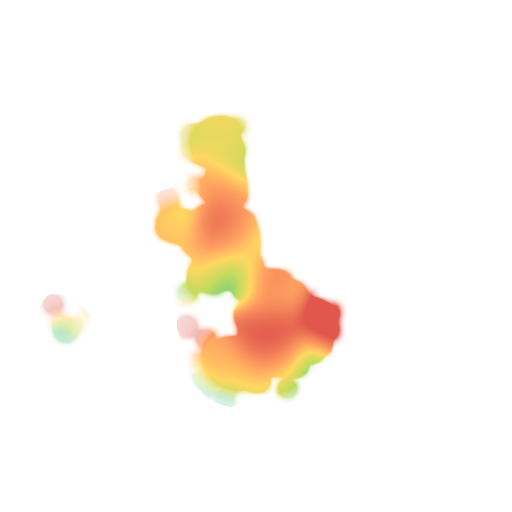
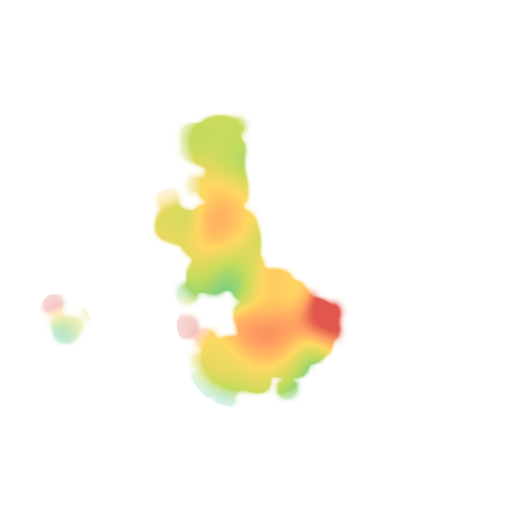
Centre the lifespan colours on the district average
Yellow now means 75%, the share of new shops in Yau Tsim still listed after three years; 60% is red and 90% is green.

Changed region(s): [[0.2812, 0.2188, 0.6562, 0.7812]]

diff --git a/pipeline/heat.py b/pipeline/heat.py
@@ -11,7 +11,8 @@ by distance (Gaussian, sigma about 150 m) gives:
   median  years until half of them stopped being listed, where that point is reached
   n       how many shops the estimate rests on (sum of weights)
 
-Green means shops last, red means they do not. Where the estimate rests on few shops the
+The colour scale is centred on the district's own three-year figure: yellow is typical for
+the district, green means shops last longer than that, red shorter. Where the estimate rests on few shops the
 colour fades toward white, so paler means less data. Nothing is drawn more than about 45 m
 from a shop.
 
@@ -126,12 +127,17 @@ def main():
     median = median.reshape(GRID, GRID)
     n_eff = n_eff.reshape(GRID, GRID)
 
-    # colour stops from the spread of well-supported cells, rounded to 5 points
+    # colour stops centred on the district's own figure, so yellow means "typical for the
+    # district", green better and red worse; the ends sit where the well-supported cells reach
+    at = onehot[:, ::-1].cumsum(1)[:, ::-1].sum(0)
+    with np.errstate(invalid="ignore", divide="ignore"):
+        hz = np.where(at > 0, deaths_by_t.sum(0) / at, 0.0)
+    district = float(np.cumprod(1 - hz)[min(HORIZON, T - 1)])
+    centre = round(district, 2)
     ok = n_eff >= 8
-    q = np.quantile(surv3[ok], [0.05, 0.25, 0.5, 0.75, 0.95])
-    stops_v = [round(float(v) * 20) / 20 for v in q]
-    for i in range(1, len(stops_v)):
-        stops_v[i] = round(max(stops_v[i], stops_v[i - 1] + 0.05), 2)
+    lo, hi = np.quantile(surv3[ok], [0.05, 0.95])
+    half = max(0.1, math.ceil(max(centre - lo, hi - centre) * 20 - 1e-9) / 20)
+    stops_v = [round(centre + k * half / 2, 3) for k in (-2, -1, 0, 1, 2)]
     stops = [[v, c] for v, c in zip(stops_v, RAMP)]
 
     def up(a):
@@ -180,6 +186,7 @@ def main():
         "image": "heat/lifespan.png",
         "bounds": [[nw[0], nw[1]], [se[0], nw[1]], [se[0], se[1]], [nw[0], se[1]]],
         "stops": stops,
+        "district": centre,
         "horizon_months": HORIZON,
         "sigma_m": SIGMA,
         "new_histories": int(len(dur)),
